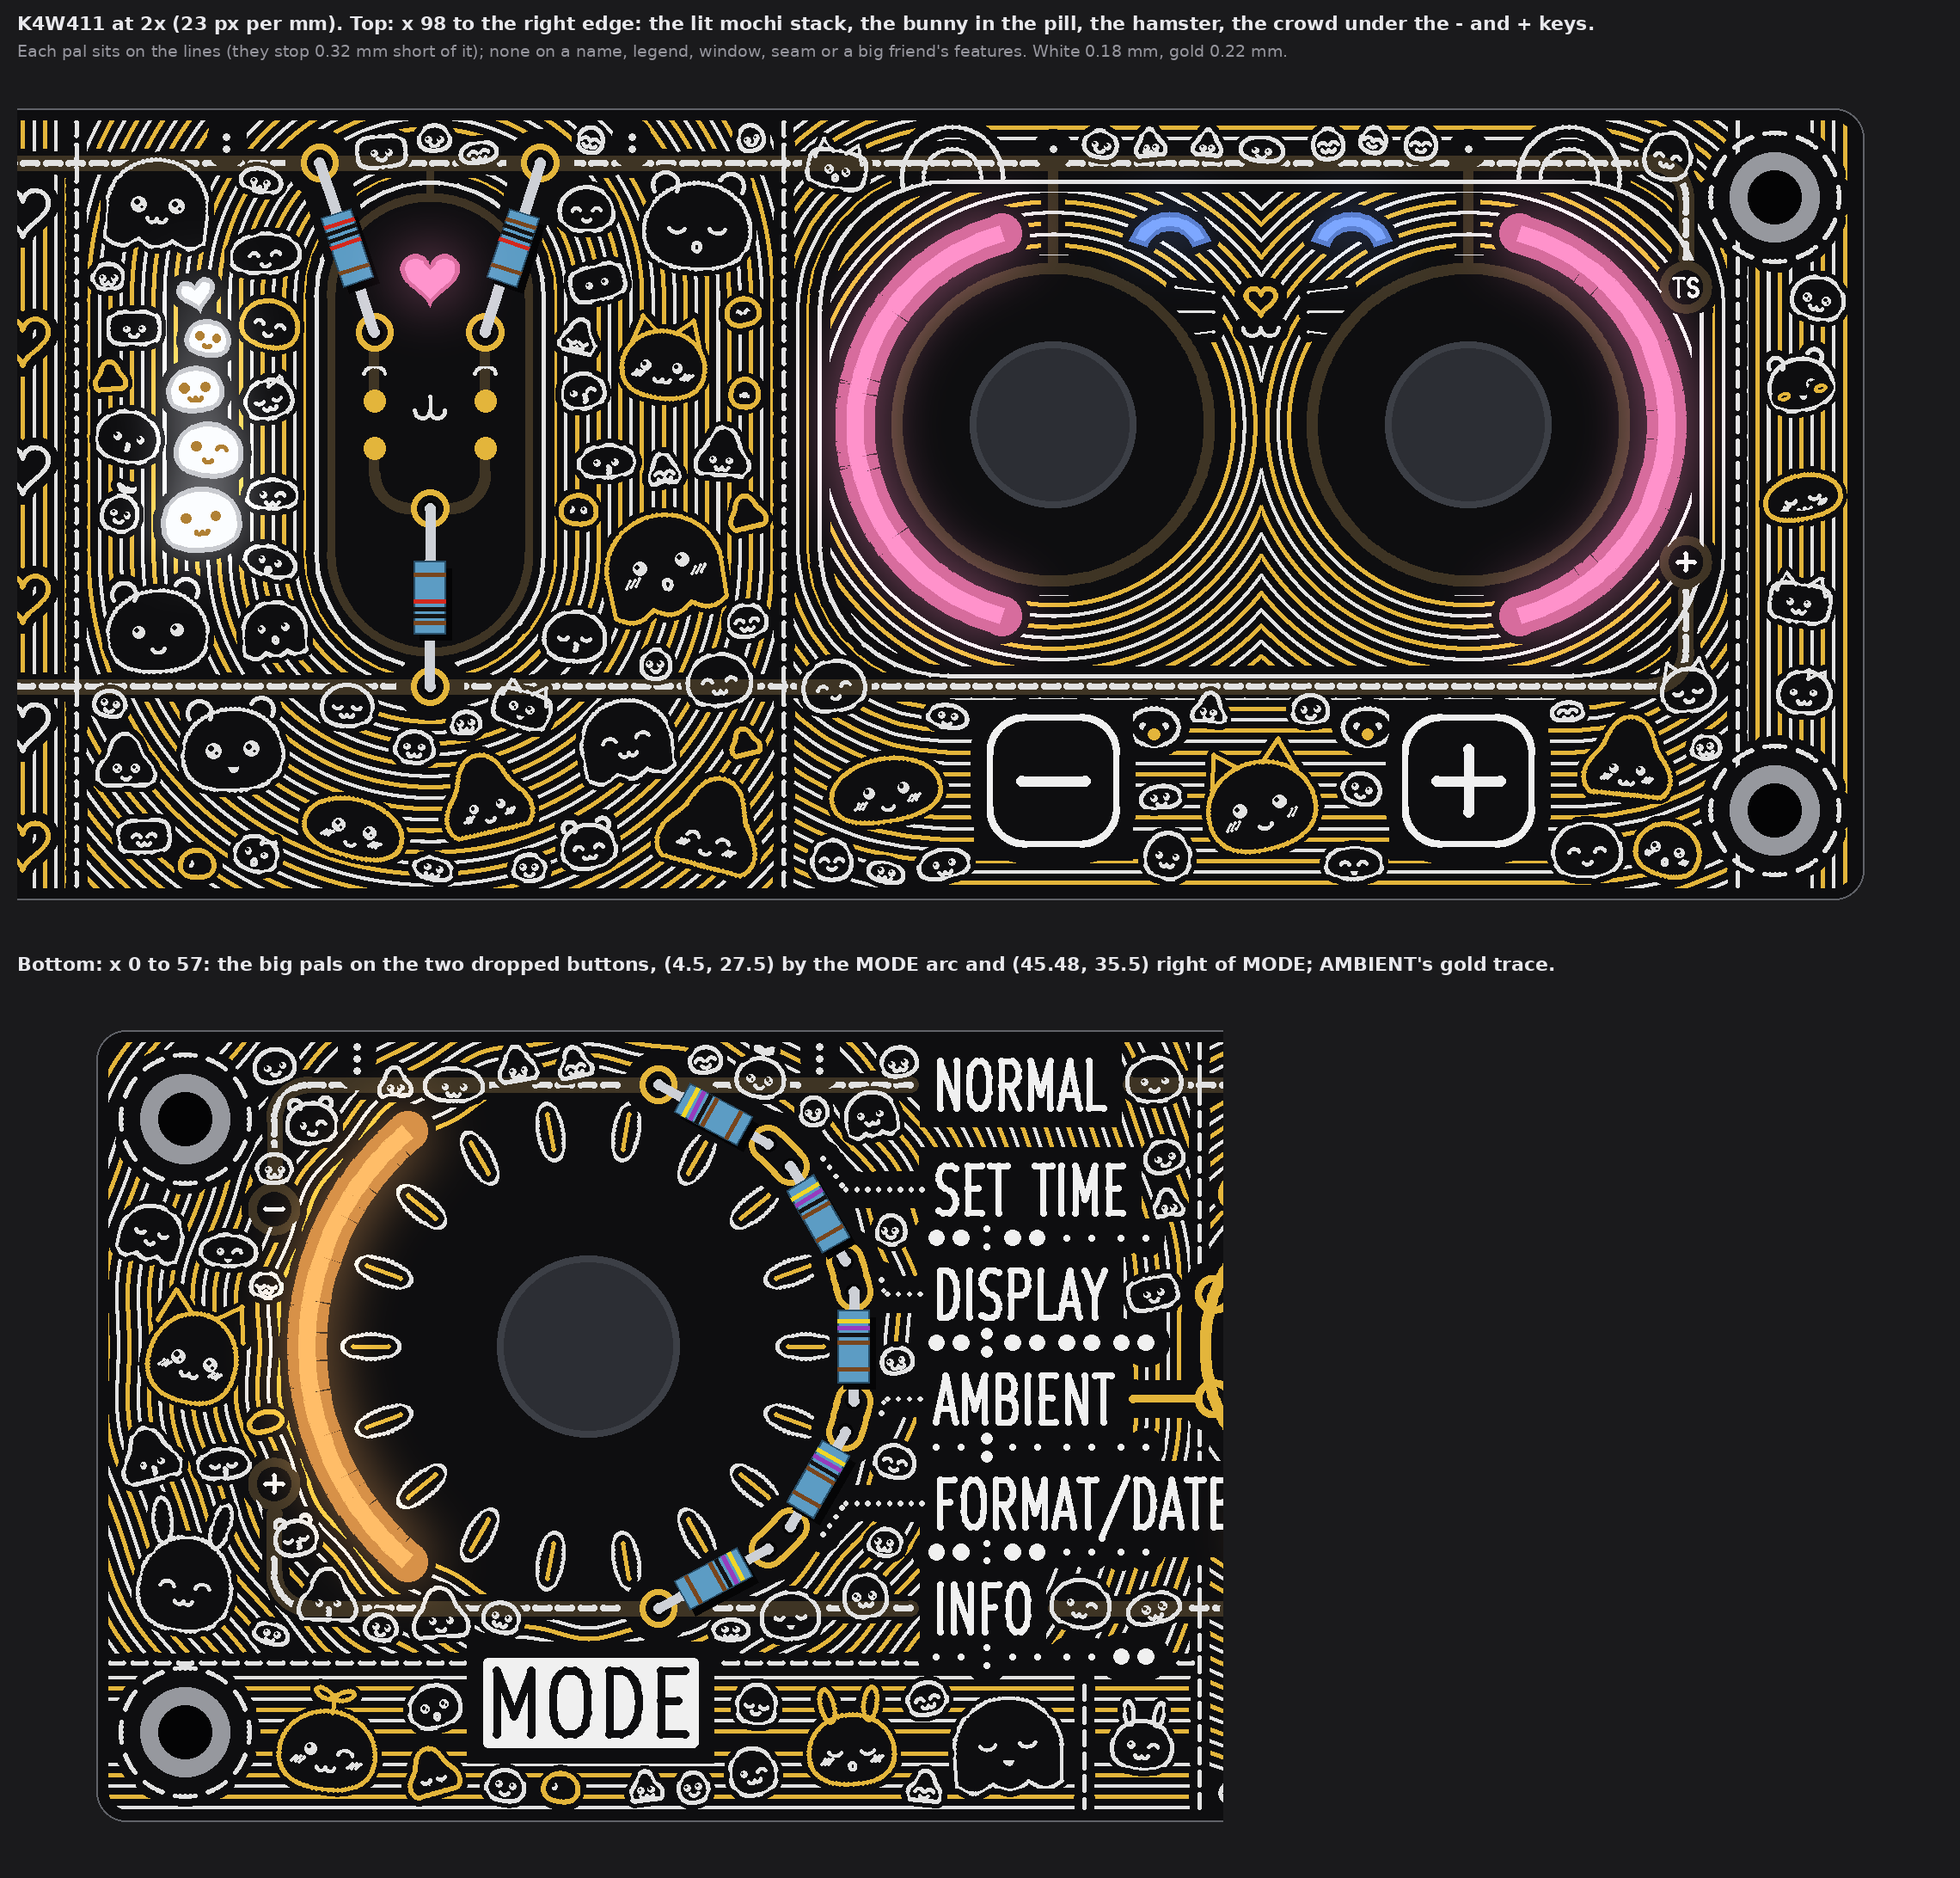
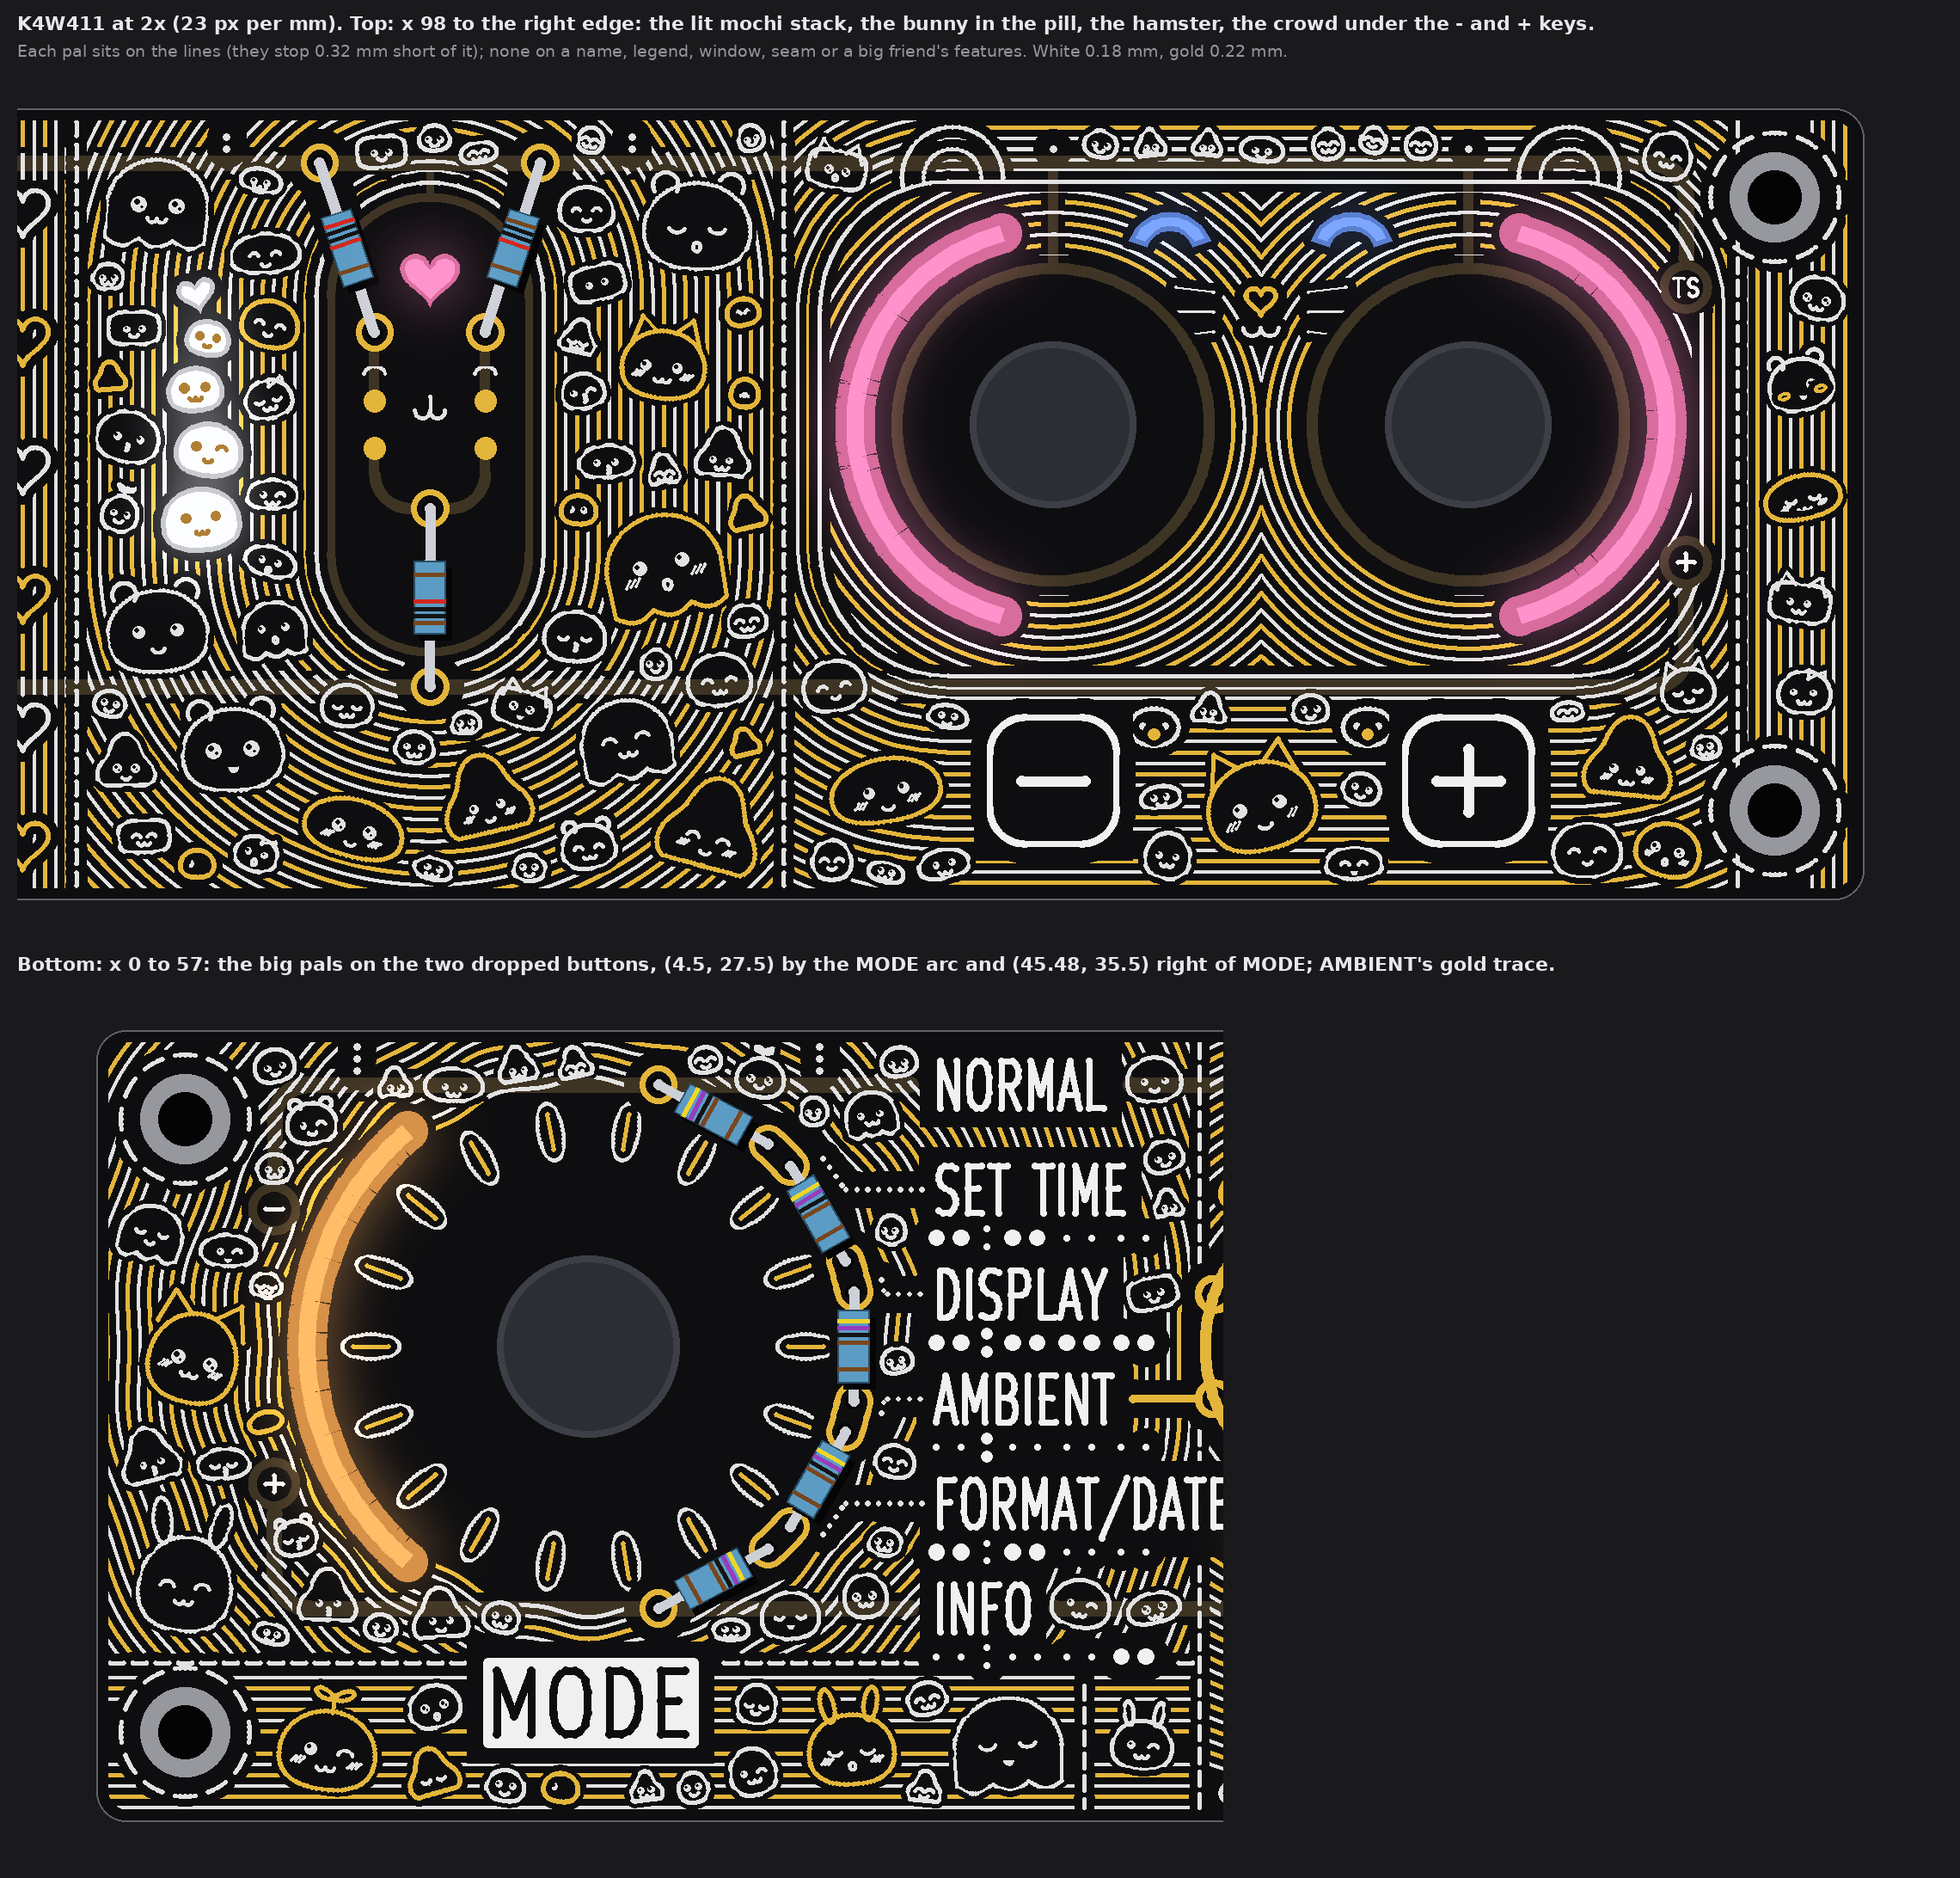
PCB/art: TS06 fascia K4W411, rails hidden (drawings only)
The owner: "rails look a bit wonky, remove them". The white running stitch
over GND and +5V is removed; the rails are hidden under the mask as in E1.
Over the rails' copper the quilt's half-pitch gold lines turn white, so
no bare strip is left. Pals, lights, pill and checks unchanged.

Claude-Session: https://claude.ai/code/session_01WoV3gyAFgmtuk6W6Dr4bdA

diff --git a/PCB/art/TS06-FASCIA-K4W411.md b/PCB/art/TS06-FASCIA-K4W411.md
@@ -8,7 +8,7 @@ light windows are possible? space under the buttons is a bit bare too".
 So K4W411 is one face made from the three kawaii-2 faces:
 * kawaii-2-1's quilt and big friends (the daisy, the cub, the bunny in the pill, the hamster, the hearts column);
 * kawaii-2-2's free crowd and its colours;
-* kawaii-2-3's big gold parents and its stitched rails.
+* kawaii-2-3's big gold parents.
 
 All characters are my own. The queue changes A1 to A5 are in: no top-edge dots (S and P are shaped windows), the pill and the
 rails said below, display V1 Fringes above the face, and the AMBIENT cutout C gone with a gold trace in its row.
@@ -26,7 +26,7 @@ board file; *inferred* is arithmetic; *assumed* is my reading.
 
 * **Creative decisions:** kawaii-2's plush quilt under one free, crowded overlay of 189 pals in six shapes, from r 0.7 to 3.6 mm.
   Big pals sit where the two sewn buttons were. A stack of four lit mochi with a lit heart stands left of the pill. The rails are
-  the quilt's running stitch.
+  hidden.
 * **Organic.** The crowd has no mirror: one seed sets every pal's place, size, shape, tilt, face and colour.
   * The quilt's cuts are now only the real ones (round names, legends, windows, screws). kawaii-2 also cut each panel where a
     cut's mirror image fell, and filled two of those cuts with the buttons; both are gone.
@@ -43,9 +43,9 @@ board file; *inferred* is arithmetic; *assumed* is my reading.
   * **New: the lit mochi stack**, one 18.5 rigid bar, plumb, **white** (section 4).
 * **Pill:** as kawaii-2. R7 (20k) and R8 (10k) are splayed 18 degrees out as the bunny's ears; R6 does not move. The circuit,
   values, nets and part do not change (section 5).
-* **Rails: integrated**, as a white running stitch along their whole copper path (section 5).
-* **White:** the line field (0.18 mm at 1.1 mm pitch), the seams, the big friends, the stitched rails and the screws' stitched
-  rings, and 155 white pals (outlines and faces 0.18 mm).
+* **Rails: hidden** under the mask, as in E1 (section 5).
+* **White:** the line field (0.18 mm at 1.1 mm pitch), the seams, the big friends, the screws' stitched rings, and 155 white
+  pals (outlines and faces 0.18 mm).
 * **Gold:** the half-pitch lines (0.22 mm), the petals' midribs, the noses, 34 gold pals, and the white pals' blush. All are
   isolated islands, 0.36 mm or more from copper. AMBIENT's trace is on the gold net. The lit pals' faces are gold islands inside
   their openings (section 4).
@@ -105,7 +105,7 @@ The line field closes round them; the lines stop 0.32 mm short of each pal, as e
   * A gold cat-eared loaf sits between the two key plates, below the paws.
   * Gold and white pals fill both sides of the plates and the strip under them.
   * *Measured:* pals cover 31 per cent of that band's free ground; the board's average is 30 per cent. The rest is the line
-    field and the stitched rail showing between them.
+    field showing between them.
 
 ## 4. The mochi light windows: a lit stack
 
@@ -168,12 +168,13 @@ says a control's state. The four colours are fixed by which part is fitted; none
   * R6 does not move, and the landing dots (the bunny's eyes) do not move.
   * The circuit, values, nets and part type do not change; the route to J1 is as on the ordered board.
   * The heart (S) sits between the ears.
-* **Rails: integrated** as the quilt's running stitch: 0.3 mm white, 0.7 mm dashes, 0.45 mm gaps. It runs over both masked rails
-  along their whole path, with their corners and stubs to the lugs (kawaii-2-3 left the right end hidden for its mirror).
-  * The pals sit on the stitch the way they sit on the lines; the stitch stops 0.32 mm short of each pal.
-  * The line field keeps 0.45 mm off the stitch.
+* **Rails: hidden** under the mask, as in E1. The line field runs on over them, and the pals sit on them.
+  * Over the rails' copper the quilt's half-pitch gold lines turn white, because gold keeps 0.36 mm off copper. So no bare strip
+    is left along either rail.
   * Gold pals keep 0.36 mm from the rails' copper, so the pals that sit on a rail are white.
   * The copper does not change.
+* **Changed after the first look (the owner: "rails look a bit wonky, remove them"):** the white running stitch drawn over both
+  rails is removed. Nothing else changed: same pals, lights, pill and checks.
 
 ## 6. The checks (*measured* on the raster, 23 px per mm)
 
